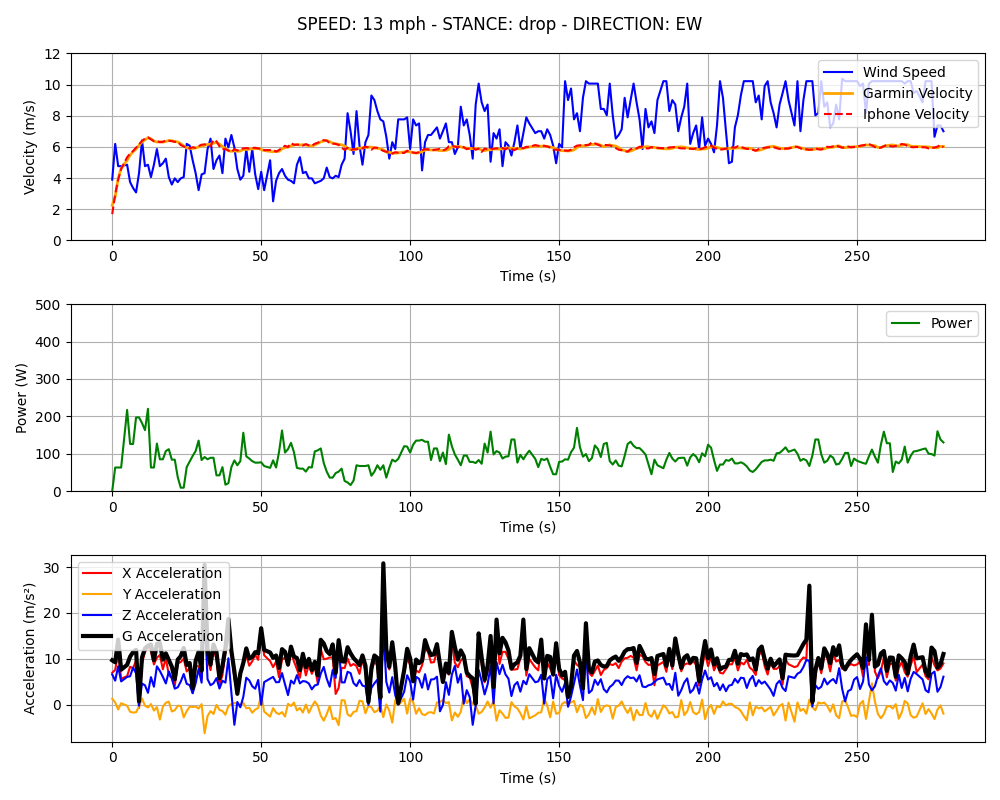
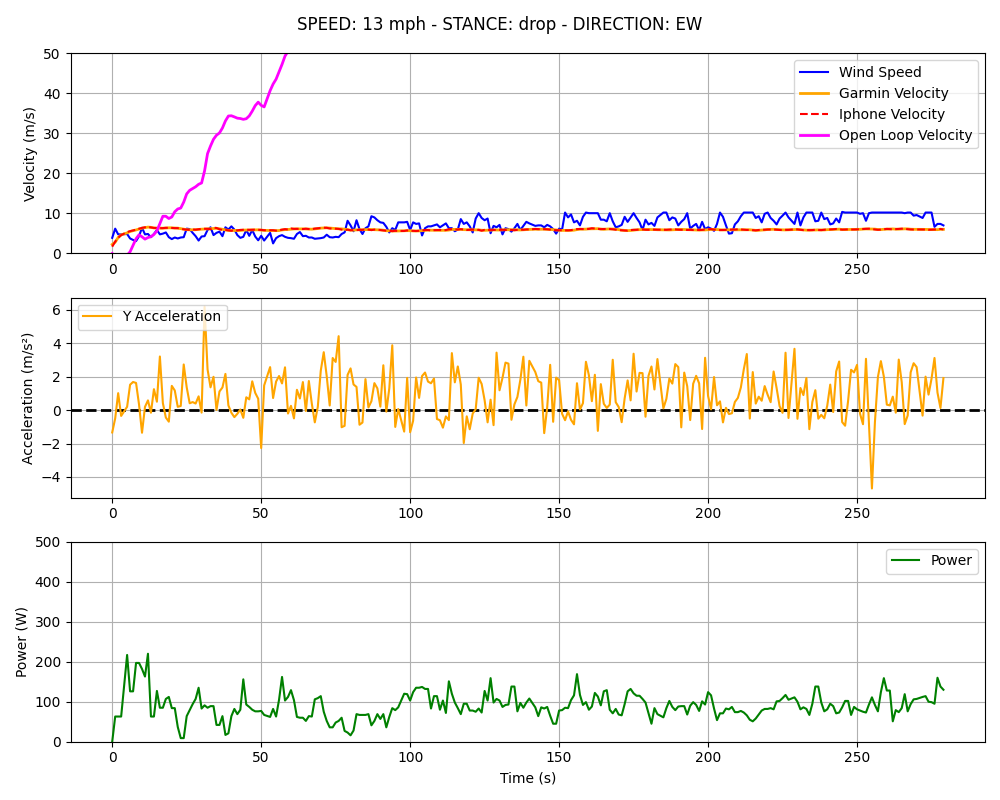
updated plotting with open loop estimation

diff --git a/sample_plotting.py b/sample_plotting.py
@@ -3,106 +3,99 @@ import numpy as np
 import matplotlib.pyplot as plt
 import ipdb
 from itertools import product
+import scipy.integrate
+import scipy
 
-# define which meta values to plot 
+# define which meta values to plot
 META_FILTER = {
     "meta_speed_mph": [13, 19],
-    "meta_stance": ['up', 'drop', 'mix'],
-    "meta_direction": ['EW', 'WE'],
+    "meta_stance": ["up", "drop", "mix"],
+    "meta_direction": ["EW", "WE"],
 }
+
 
 def plot_velocities_and_power():
     data = pl.read_csv("master_data_set.csv").with_columns(
         absolute_time=pl.col("absolute_time").cast(pl.Datetime),
     )
 
-    combination = product(META_FILTER["meta_speed_mph"],
-                          META_FILTER["meta_stance"],
-                          META_FILTER["meta_direction"])
+    combination = product(META_FILTER["meta_speed_mph"], META_FILTER["meta_stance"], META_FILTER["meta_direction"])
 
     for speed, stance, direction in combination:
-        figure, axes = plt.subplots(nrows=3, ncols=1, figsize=(10,8))
+        figure, axes = plt.subplots(nrows=3, ncols=1, figsize=(10, 8))
         subdata = data.filter(
-            pl.col("meta_direction") == direction,
-            pl.col("meta_speed_mph") == speed,
-            pl.col("meta_stance") == stance
+            pl.col("meta_direction") == direction, pl.col("meta_speed_mph") == speed, pl.col("meta_stance") == stance
         )
-                
+
+        # calculat the open loop velocity from the acceleration data alone (will be ugly!)
+        time = subdata["time"].to_numpy()
+        axial_acceleration = subdata["Y (m/s^2)"].to_numpy()
+        ol_velocity = scipy.integrate.cumulative_trapezoid(axial_acceleration, time, initial=0)
+
+        # velocity plots
         axes[0].plot(
-            subdata["time"].to_numpy(),
+            time,
             subdata["Wind (m/s)"].to_numpy(),
             label=f"Wind Speed",
             color="blue",
         )
         axes[0].plot(
-            subdata["time"].to_numpy(),
+            time,
             subdata["enhanced_speed"].to_numpy(),
             label=f"Garmin Velocity",
             linewidth=2,
             color="orange",
         )
         axes[0].plot(
-            subdata["time"].to_numpy(),
+            time,
             subdata["Speed"].to_numpy(),
             label=f"Iphone Velocity",
-            linestyle='--',
+            linestyle="--",
             color="red",
         )
+        axes[0].plot(
+            time,
+            ol_velocity,
+            label=f"Open Loop Velocity",
+            linewidth=2,
+            color="magenta",
+        )
 
+        # acceleration plot
+        axes[1].axhline(0, color="black", linewidth=2, linestyle="--")
         axes[1].plot(
-            subdata["time"].to_numpy(),
+            time,
+            subdata["Y (m/s^2)"].to_numpy(),
+            label=f"Y Acceleration",
+            color="orange",
+        )
+
+        # power plot
+        axes[2].plot(
+            time,
             subdata["power"].to_numpy(),
             label=f"Power",
             color="green",
         )
 
-        axes[2].plot(
-            subdata["time"].to_numpy(),
-            -subdata["X (m/s^2)"].to_numpy(),
-            label=f"X Acceleration",
-            color="red",
-        )
-        axes[2].plot(
-            subdata["time"].to_numpy(),
-            -subdata["Y (m/s^2)"].to_numpy(),
-            label=f"Y Acceleration",
-            color="orange",
-        )
-        axes[2].plot(
-            subdata["time"].to_numpy(),
-            -subdata["Z (m/s^2)"].to_numpy(),
-            label=f"Z Acceleration",
-            color="blue",
-        )
-        axes[2].plot(
-            subdata["time"].to_numpy(),
-            subdata["G (m/s^2)"].to_numpy(),
-            label=f"G Acceleration",
-            color="black",
-            linewidth=3,
-        )
-        axes[2].set_ylabel("Acceleration (m/s²)")
-        axes[2].legend(loc='upper left')
-        axes[2].grid()
-        axes[2].set_xlabel("Time (s)")
-
-        axes[0].set_xlabel("Time (s)")
         axes[0].set_ylabel("Velocity (m/s)")
-        axes[0].set_ylim(0, 12)
-        axes[0].legend(loc='upper right')
+        axes[0].set_ylim(0, 50)
+        axes[0].legend(loc="upper right")
         axes[0].grid()
 
-        axes[1].set_xlabel("Time (s)")
-        axes[1].set_ylabel("Power (W)")
-        axes[1].set_ylim(0, 500)
-        axes[1].legend(loc='upper right')
+        axes[1].set_ylabel("Acceleration (m/s²)")
+        axes[1].legend(loc="upper left")
         axes[1].grid()
 
+        axes[2].set_xlabel("Time (s)")
+        axes[2].set_ylabel("Power (W)")
+        axes[2].set_ylim(0, 500)
+        axes[2].legend(loc="upper right")
+        axes[2].grid()
 
         figure.suptitle(f"SPEED: {speed} mph - STANCE: {stance} - DIRECTION: {direction}")
         plt.tight_layout()
         plt.savefig(f"_plots/{direction}_speed_{speed}_stance_{stance}.png")
-
 
 
 if __name__ == "__main__":
